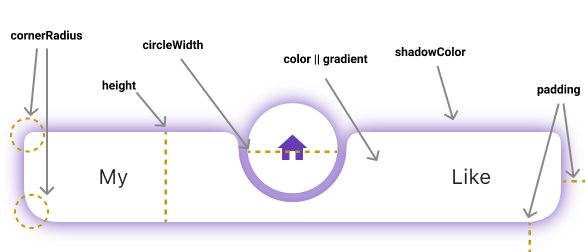
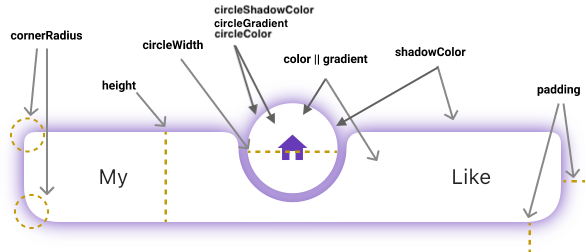
adds optional configuration params: circleColor, circleShadowColor, circleGradient

diff --git a/lib/circle_nav_bar.dart b/lib/circle_nav_bar.dart
@@ -18,6 +18,7 @@ class CircleNavBar extends StatefulWidget {
   ///     Text("Like"),
   ///   ],
   ///   color: Colors.white,
+  ///   // circleColor: Colors.white,
   ///   height: 60,
   ///   circleWidth: 60,
   ///   activeIndex: 1,
@@ -32,8 +33,10 @@ class CircleNavBar extends StatefulWidget {
   ///     bottomLeft: Radius.circular(24),
   ///   ),
   ///   shadowColor: Colors.deepPurple,
+  ///   // circleShadowColor: Colors.deepPurple,
   ///   elevation: 10,
   ///   // gradient: LinearGradient(colors: [0xFF73d1d3, 0xFFBADCC3, 0xFFDBA380].map(Color.new).toList()),
+  ///   // circleGradient: LinearGradient(colors: [0xFF73d1d3, 0xFFBADCC3, 0xFFDBA380].map(Color.new).toList()),
   /// );
   /// ```
   ///
@@ -51,11 +54,14 @@ class CircleNavBar extends StatefulWidget {
     required this.height,
     required this.circleWidth,
     required this.color,
+    this.circleColor,
     this.padding = EdgeInsets.zero,
     this.cornerRadius = BorderRadius.zero,
     this.shadowColor = Colors.white,
+    this.circleShadowColor,
     this.elevation = 0,
     this.gradient,
+    this.circleGradient,
   })  : assert(circleWidth <= height, "circleWidth <= height"),
         assert(activeIcons.length == inactiveIcons.length, "activeIcons.length and inactiveIcons.length must be equal!"),
         assert(activeIcons.length > activeIndex, "activeIcons.length > activeIndex"),
@@ -77,6 +83,14 @@ class CircleNavBar extends StatefulWidget {
   ///
   /// ![](https://raw.githubusercontent.com/111coding/circle_nav_bar/master/doc/value-05.png)
   final Color color;
+
+  /// Circle color (for active index)
+  ///
+  /// If [circleGradient] is given, [circleColor] & [color] will be ignored
+  /// If null, [color] will be used
+  ///
+  /// ![](https://raw.githubusercontent.com/111coding/circle_nav_bar/master/doc/value-05.png)
+  final Color? circleColor;
 
   /// Bottom bar activeIcon List
   ///
@@ -111,15 +125,29 @@ class CircleNavBar extends StatefulWidget {
   /// ![](https://raw.githubusercontent.com/111coding/circle_nav_bar/master/doc/value-05.png)
   final Color shadowColor;
 
+  /// Circle shadow color (for active index)
+  ///
+  /// If null, [shadowColor] will be used
+  ///
+  /// ![](https://raw.githubusercontent.com/111coding/circle_nav_bar/master/doc/value-05.png)
+  final Color? circleShadowColor;
+
   /// elevation
   final double elevation;
 
   /// gradient
   ///
-  /// If you set gradient, color will be ignored
+  /// If you set gradient, [color] will be ignored
   ///
   /// ![](https://raw.githubusercontent.com/111coding/circle_nav_bar/master/doc/value-05.png)
   final Gradient? gradient;
+
+  /// Circle gradient (for active index)
+  ///
+  /// If null, [gradient] might be used
+  ///
+  /// ![](https://raw.githubusercontent.com/111coding/circle_nav_bar/master/doc/value-05.png)
+  final Gradient? circleGradient;
 
   /// active index
   final int activeIndex;
@@ -197,11 +225,14 @@ class _CircleNavBarState extends State<CircleNavBar> with TickerProviderStateMix
             painter: _CircleBottomPainter(
               iconWidth: widget.circleWidth,
               color: widget.color,
+              circleColor: widget.circleColor ?? widget.color,
               xOffsetPercent: tabAc.value,
               boxRadius: widget.cornerRadius,
               shadowColor: widget.shadowColor,
+              circleShadowColor: widget.circleShadowColor ?? widget.shadowColor,
               elevation: widget.elevation,
               gradient: widget.gradient,
+              circleGradient: widget.circleGradient ?? widget.gradient,
             ),
             child: SizedBox(
               height: widget.height,
@@ -250,20 +281,26 @@ class _CircleBottomPainter extends CustomPainter {
   _CircleBottomPainter({
     required this.iconWidth,
     required this.color,
+    required this.circleColor,
     required this.xOffsetPercent,
     required this.boxRadius,
     required this.shadowColor,
+    required this.circleShadowColor,
     required this.elevation,
     this.gradient,
+    this.circleGradient,
   });
 
   final Color color;
+  final Color circleColor;
   final double iconWidth;
   final double xOffsetPercent;
   final BorderRadius boxRadius;
   final Color shadowColor;
+  final Color circleShadowColor;
   final double elevation;
   final Gradient? gradient;
+  final Gradient? circleGradient;
 
   static double getR(double circleWidth) {
     return circleWidth / 2 * 1.2;
@@ -282,6 +319,12 @@ class _CircleBottomPainter extends CustomPainter {
     Path path = Path();
 
     Paint paint = Paint();
+    Paint? circlePaint;
+    if (color != circleColor || circleGradient != null) {
+      circlePaint = Paint();
+      circlePaint.color = circleColor;
+    }
+
     final w = size.width;
     final h = size.height;
     final r = getR(iconWidth);
@@ -325,6 +368,12 @@ class _CircleBottomPainter extends CustomPainter {
       paint.shader = gradient!.createShader(shaderRect);
     }
 
+    if (circleGradient != null) {
+      Rect shaderRect = Rect.fromCircle(center: Offset(x, miniRadius), radius: iconWidth / 2);
+      circlePaint?.shader = circleGradient!.createShader(shaderRect);
+    }
+
+    // TODO: when using this commented code, use circle-specific values as well
     // canvas.drawShadow(path, shadowColor, elevation, false);
     // Path oval = Path()..addOval(Rect.fromCircle(center: Offset(x, miniRadius), radius: iconWidth / 2));
 
@@ -339,12 +388,12 @@ class _CircleBottomPainter extends CustomPainter {
         Offset(x, miniRadius),
         iconWidth / 2,
         Paint()
-          ..color = shadowColor
+          ..color = circleShadowColor
           ..maskFilter = MaskFilter.blur(BlurStyle.normal, convertRadiusToSigma(elevation)));
 
     canvas.drawPath(path, paint);
 
-    canvas.drawCircle(Offset(x, miniRadius), iconWidth / 2, paint);
+    canvas.drawCircle(Offset(x, miniRadius), iconWidth / 2, circlePaint ?? paint);
   }
 
   @override
